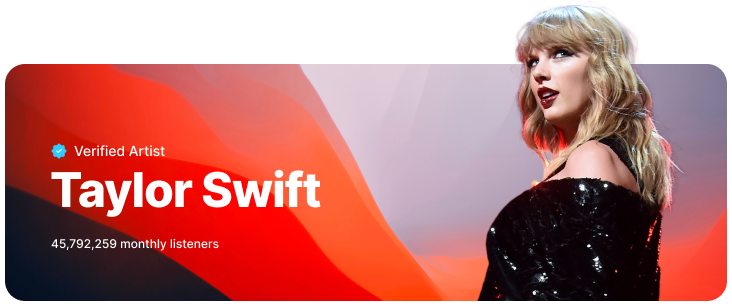
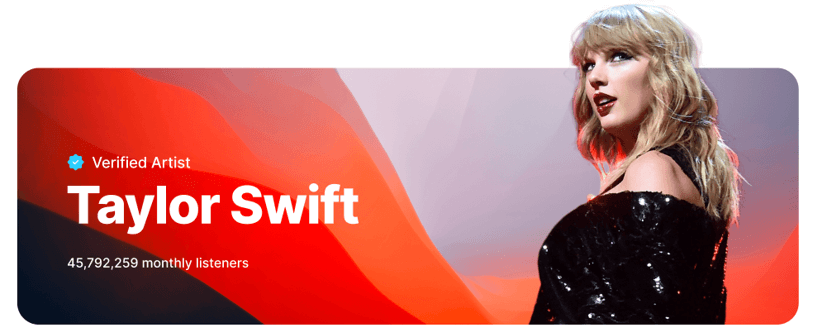
songs added

diff --git a/src/components/Navigator/Navigator.js b/src/components/Navigator/Navigator.js
@@ -18,11 +18,11 @@ import './Navigator.css'
 
 const Navigator = () => {
     return (
-        <div className='px-2'>
+        <div className='px-2 mt-4'>
             <div className="navigator-header">
                 <div className="navigator-header-container d-flex justify-content-between align-items-center">
                     <img src={headerIcon} alt="icon" />
-                    <CgCollage/>
+                    <CgCollage />
                 </div>
                 <div className="navigator-logo-container py-4">
                     <img src={logo} alt="logo" />
@@ -30,17 +30,24 @@ const Navigator = () => {
             </div>
             <div className="navigator-menu">
                 <ul>
-                    <li className='menu-home'><span><img src={homeIcon} alt="" /></span>Home</li>
-                    <li><span><img src={trendsIcon} alt="" /></span>Home</li>
-                    <li><span><img src={libraryIcon} alt="" /></span>Home</li>
-                    <p><small>Discover</small></p>
-                    <li><span><img src={discoverIcon} alt="" /></span>Home</li>
-                    <li><span><img src={madeForYouIcon} alt="" /></span>Home</li>
-                    <li><span><img src={dailyMixIcon} alt="" /></span>Home</li>
-                    <p><small>Your Collection</small></p>
-                    <li><span><img src={likedSongsIcon} alt="" /></span>Home</li>
-                    <li><span><img src={favoriteArtistIcon} alt="" /></span>Home</li>
-                    <li><span><img src={playlistIcon} alt="" /></span>Home</li>
+                    <div className="main-menu">
+                    <p><small></small></p>
+                        <li className='menu-home'><span><img src={homeIcon} alt="" /></span>Home</li>
+                        <li><span><img src={trendsIcon} alt="" /></span>Trends</li>
+                        <li><span><img src={libraryIcon} alt="" /></span>Library</li>
+                    </div>
+                    <div className="discover-menu">
+                        <p><small>Discover</small></p>
+                        <li><span><img src={discoverIcon} alt="" /></span>Discover Weekly</li>
+                        <li><span><img src={madeForYouIcon} alt="" /></span>Made for you</li>
+                        <li><span><img src={dailyMixIcon} alt="" /></span>Daily Mix</li>
+                    </div>
+                    <div className="collection-menu">
+                        <p><small>Your Collection</small></p>
+                        <li><span><img src={likedSongsIcon} alt="" /></span>Liked Songs</li>
+                        <li><span><img src={favoriteArtistIcon} alt="" /></span>Favorite Artist</li>
+                        <li><span><img src={playlistIcon} alt="" /></span>Playlist</li>
+                    </div>
                 </ul>
             </div>
         </div>

diff --git a/src/components/Music/Songs/Songs.js b/src/components/Music/Songs/Songs.js
@@ -1,0 +1,41 @@
+import React, { useEffect, useState } from 'react';
+import Song from '../Song/Song';
+// import singerImg from '';
+
+const Songs = () => {
+    const [songLists, setSongLists] = useState([])
+    useEffect( ()=>{
+        fetch('songs.json')
+        .then(res => res.json())
+        .then(data => setSongLists(data))
+    },[])
+    return (
+        <div className='song-main-container px-3 mt-3'>
+        <div className="song-header-container d-flex justify-content-between align-items-center">
+            <h3>Popular</h3>
+            <p className='fw-bold text-muted' style={{paddingRight: '9%'}}><small>See ALl</small></p>
+        </div>
+        <div className="song-container">
+            <table class="table table-borderless">
+                <thead>
+                    <tr>
+                        <th scope="col">#</th>
+                        <th scope="col"></th>
+                        <th scope="col">TITLE</th>
+                        <th scope="col">PLAYING</th>
+                        <th  scope="col">TIME</th>
+                        <th scope="col">ALBUM</th>
+                    </tr>
+                </thead>
+                <tbody className='text-muted'>
+                    {
+                        songLists.map((song , index) => <Song key={song.id} song={song} index={index}/>)
+                    }
+                </tbody>
+            </table>
+        </div>
+    </div>
+    );
+};
+
+export default Songs;

diff --git a/src/components/Music/MusicHeader/MusicHeader.css b/src/components/Music/MusicHeader/MusicHeader.css
@@ -4,13 +4,14 @@
 }
 .music-search-bar{
     position: relative;
+    width: 88%;
 }
 .music-search-bar input{
     border: 0;
     outline: 0;
     background-color: #F1F1F1;
     padding: 5px 0px 5px 70px;
-    padding-right: 70%;
+    padding-right: 50%;
     margin-left: 40px;
     position: relative;
 }
@@ -19,4 +20,34 @@
     top: 8px;
     left: 70px;
     font-size: 22px;
+}
+
+
+@media only screen and (max-width: 767px){
+    .music-search-bar input{
+        padding-right: 20%;
+    }
+    .music-img-container{
+        width: 150%;
+    }
+    .music-slider{
+        display: flex;
+        margin-right: 0;
+    }
+    .music-slider svg{
+        margin-right: 0px;
+    }
+}
+@media only screen and (max-width: 680px) and (min-width: 575px){
+    .music-search-bar input{
+        padding-right: 10%;
+    }
+}
+@media only screen and (max-width: 1073px){
+    .music-search-bar{
+        padding-right: 50%;
+    }
+    .music-slider{
+        display: flex;
+    }
 }

diff --git a/src/components/Navigator/Navigator.css b/src/components/Navigator/Navigator.css
@@ -1,21 +1,35 @@
-.navigator-menu ul li{
+.navigator-menu ul li {
     list-style: none;
     font-size: 18px;
     font-weight: 500;
     margin: 20px 0;
     color: #6c757d;
+    cursor: pointer;
 }
-.navigator-menu .menu-home{
+
+.navigator-menu .menu-home {
     color: #000;
 }
-.navigator-menu ul li span{
+
+.navigator-menu ul li span {
     padding-right: 25px;
 }
-.navigator-menu ul li span img{
+
+.navigator-menu ul li span img {
     margin-bottom: 8px;
 }
-.navigator-menu ul p{
+
+.navigator-menu ul p {
     color: #6c757d;
     font-weight: 500;
     margin: 20px 0 25px 0;
+}
+
+
+@media only screen and (max-width: 575px) {
+    .navigator-menu ul {
+        display: flex;
+        flex-wrap: wrap;
+        gap: 100px;
+    }
 }

diff --git a/src/components/Music/MusicHeader/MusicHeader.js b/src/components/Music/MusicHeader/MusicHeader.js
@@ -5,7 +5,7 @@ import './MusicHeader.css'
 
 const MusicHeader = () => {
     return (
-        <div className='music-header-container px-3'>
+        <div className='music-header-container px-3 mb-5 mt-4'>
             <div className="music-search-container d-flex">
                 <div className="music-slider">
                     <BiChevronLeft/>
@@ -16,7 +16,7 @@ const MusicHeader = () => {
                     <span><BiSearch/></span>
                 </div>
             </div>
-            <div className="music-img-container mt-3">
+            <div className="music-img-container mt-5">
                 <img className='img-fluid' src={musicBgImg} alt="music-bg" />
             </div>
         </div>

diff --git a/src/components/Home/Home.js b/src/components/Home/Home.js
@@ -7,14 +7,11 @@ const Home = () => {
     return (
         <div className='container-fluid home-main'>
             <div className="row">
-                <div className="col-lg-3">
+                <div className="col-lg-3 col-md-3 col-sm-6 col-12">
                     <Navigator/>
                 </div>
-                <div className="col-lg-6 home-music-container">
+                <div className="col-lg-9 col-md-9 col-sm-6 col-12 home-music-container">
                     <MusicMain/>
-                </div>
-                <div className="col-lg-3">
-                hello
                 </div>
             </div>
         </div>

diff --git a/src/components/Music/Song/Song.js b/src/components/Music/Song/Song.js
@@ -1,0 +1,17 @@
+import React from 'react';
+
+const Song = ({ song, index }) => {
+    const {singerImg, title, playingNumber, time, year} = song;
+    return (
+        <tr >
+            <th className='' scope="col">{index + 1}</th>
+            <th className=''scope="col"><img  src={singerImg} alt="" /></th>
+            <th className='' scope="col">{title}</th>
+            <th className='px-2' scope="col">{playingNumber}</th>
+            <th className='px-2' scope="col">{time}</th>
+            <th className='px-2' scope="col">{year}</th>
+        </tr>
+    );
+};
+
+export default Song;

diff --git a/src/components/Music/MusicMain/MusicMain.js b/src/components/Music/MusicMain/MusicMain.js
@@ -1,10 +1,12 @@
 import React from 'react';
 import MusicHeader from '../MusicHeader/MusicHeader';
+import Songs from '../Songs/Songs';
 
 const MusicMain = () => {
     return (
         <div>
             <MusicHeader/>
+            <Songs/>
         </div>
     );
 };

diff --git a/src/App.js b/src/App.js
@@ -4,7 +4,7 @@ import Home from './components/Home/Home';
 
 function App() {
   return (
-    <div className='mt-4'>
+    <div>
       <Home/>
     </div>
   );
